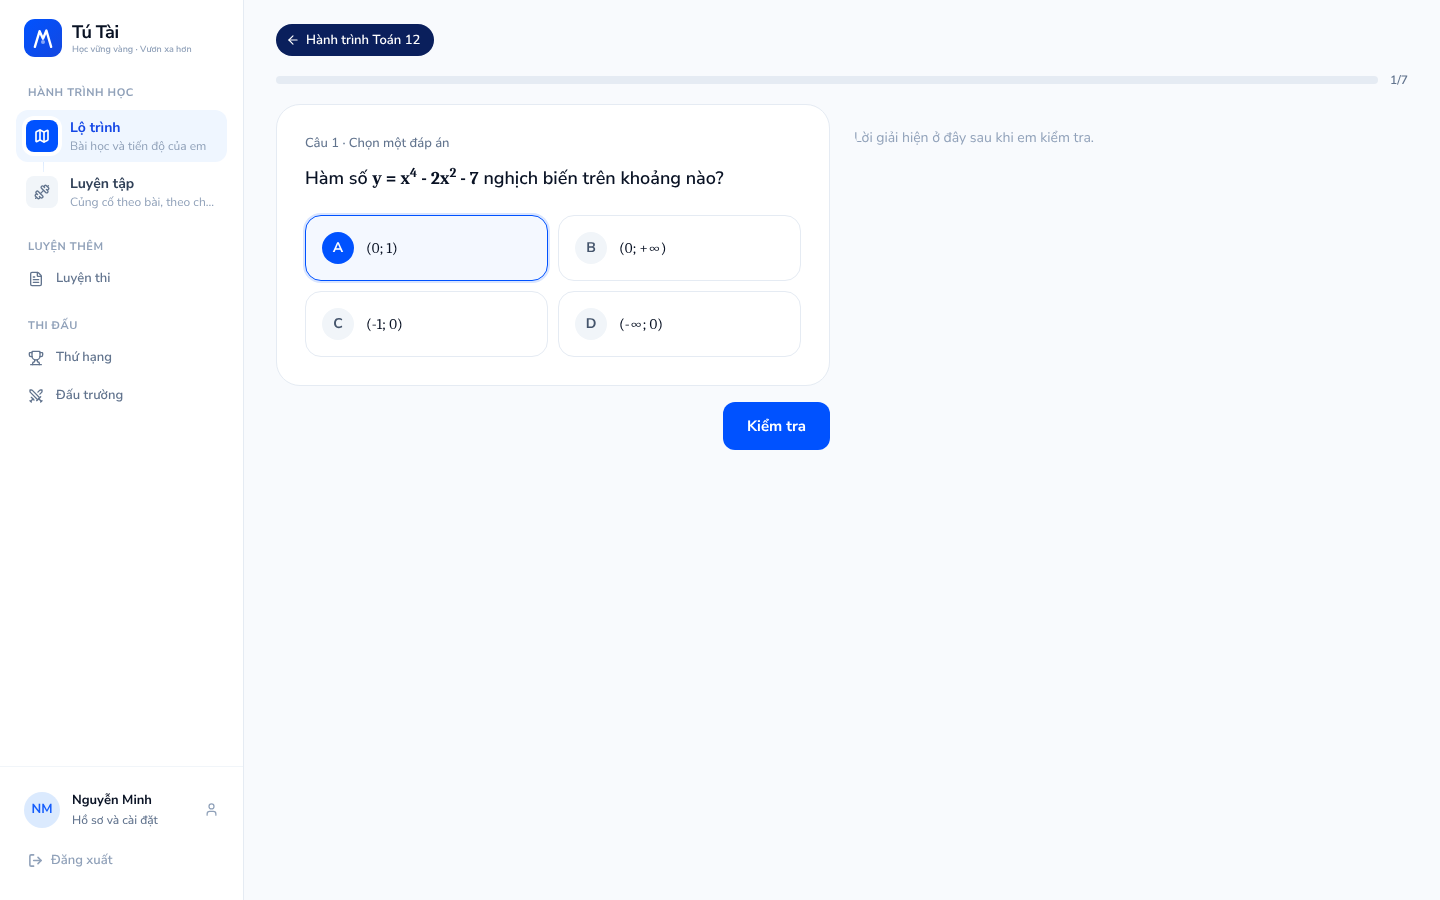
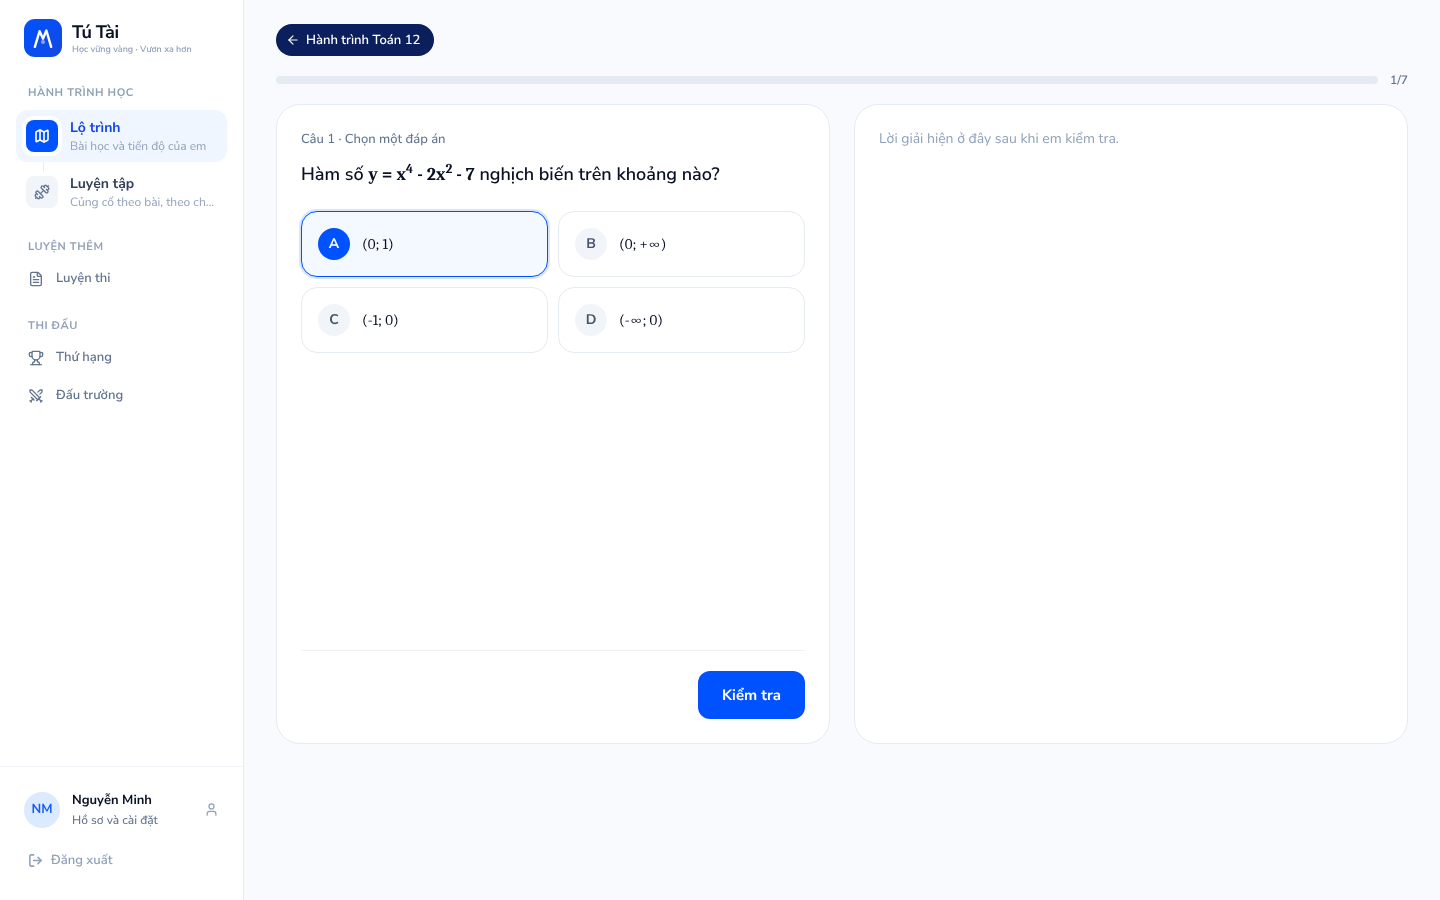
Keep the question and solution cards the same height
Claude-Session: https://claude.ai/code/session_0183PJ8LAwyvZoofH1NCFUep

diff --git a/features/lessons/components/practice-stage.tsx b/features/lessons/components/practice-stage.tsx
@@ -1,14 +1,21 @@
 import * as React from 'react';
 
+/** For the result panel inside the stage: side by side, the stage draws the card around it. */
+export const STAGE_FEEDBACK_CLASS = '@min-[880px]/stage:border-0';
+
 /**
  * One practice question on screen. Where the content area is wide enough, the
- * question and its answers sit on the left and the result with the worked
- * solution on the right, kept in view while the solution scrolls on its own,
- * so the student reads the solution beside the question instead of scrolling
- * down to it. Narrower, everything stacks: question, result, then the action.
+ * question, its answers and the action sit in one card on the left and the
+ * result with the worked solution in a card on the right. The two cards are
+ * always the same height: the question card's, and at least a comfortable
+ * height for the screen, so a short question does not leave a stub beside a
+ * long solution. A solution longer than that scrolls inside its card.
+ * Narrower, everything stacks: question, result, then the action.
  *
  * The split starts at 880px of content width (a container query, not the
  * window's width, since the sidebar takes part of the window on desktop).
+ * Styles that only apply to one layout carry its query, so the two never
+ * compete for the same property.
  */
 export function PracticeStage({
   questionId,
@@ -25,26 +32,34 @@ export function PracticeStage({
 }) {
   return (
     <div className="@container/stage mt-4" data-testid="practice-stage">
-      <div
-        className={`grid grid-cols-1 [grid-template-areas:'q'_'f'_'a'] @min-[880px]/stage:grid-cols-[minmax(0,1fr)_minmax(0,1fr)] @min-[880px]/stage:grid-rows-[auto_1fr] @min-[880px]/stage:gap-x-6 @min-[880px]/stage:[grid-template-areas:'q_f'_'a_f']`}
-      >
-        <div className="min-w-0 [grid-area:q]">{question}</div>
+      <div className="grid grid-cols-1 [grid-template-areas:'q'_'f'_'a'] @min-[880px]/stage:grid-cols-[minmax(0,1fr)_minmax(0,1fr)] @min-[880px]/stage:gap-x-6 @min-[880px]/stage:[grid-template-areas:'q_f']">
+        {/* Side by side: one card holding the question and its action. Stacked: no box of its own. */}
+        <div className="contents @min-[880px]/stage:flex @min-[880px]/stage:min-h-[min(640px,calc(100dvh-11rem))] @min-[880px]/stage:min-w-0 @min-[880px]/stage:flex-col @min-[880px]/stage:gap-6 @min-[880px]/stage:rounded-[24px] @min-[880px]/stage:border @min-[880px]/stage:border-[#E5EBF3] @min-[880px]/stage:bg-white @min-[880px]/stage:p-6 @min-[880px]/stage:[grid-area:q]">
+          <div className="min-w-0 [grid-area:q] @max-[879px]/stage:rounded-[24px] @max-[879px]/stage:border @max-[879px]/stage:border-[#E5EBF3] @max-[879px]/stage:bg-white @max-[879px]/stage:p-5 sm:@max-[879px]/stage:p-7">
+            {question}
+          </div>
+          <div className="[grid-area:a] sm:sticky sm:bottom-4 sm:z-10 sm:@max-[879px]/stage:mt-4 sm:@max-[879px]/stage:self-start sm:@max-[879px]/stage:justify-self-end @min-[880px]/stage:mt-auto @min-[880px]/stage:border-t @min-[880px]/stage:border-[#EEF2F7] @min-[880px]/stage:bg-white @min-[880px]/stage:pt-5">
+            {actions}
+          </div>
+        </div>
         <div
-          key={questionId}
-          className={`min-w-0 overscroll-contain [grid-area:f] ${feedback ? 'mt-4' : ''} @min-[880px]/stage:sticky @min-[880px]/stage:top-6 @min-[880px]/stage:mt-0 @min-[880px]/stage:max-h-[calc(100dvh-3rem)] @min-[880px]/stage:self-start @min-[880px]/stage:overflow-y-auto @min-[880px]/stage:rounded-2xl`}
+          className={`min-w-0 [grid-area:f] ${feedback ? '@max-[879px]/stage:mt-4' : ''} @min-[880px]/stage:relative @min-[880px]/stage:overflow-hidden @min-[880px]/stage:rounded-[24px] @min-[880px]/stage:border @min-[880px]/stage:border-[#E5EBF3] @min-[880px]/stage:bg-white`}
           data-testid="practice-solution-pane"
         >
-          {feedback ?? (
-            <p
-              className="hidden pt-6 text-sm text-slate-400 @min-[880px]/stage:block"
-              data-testid="solution-placeholder"
-            >
-              Lời giải hiện ở đây sau khi em kiểm tra.
-            </p>
-          )}
-        </div>
-        <div className="[grid-area:a] sm:sticky sm:bottom-4 sm:z-10 sm:mt-4 sm:self-start sm:justify-self-end">
-          {actions}
+          <div
+            key={questionId}
+            className="overscroll-contain @min-[880px]/stage:absolute @min-[880px]/stage:inset-0 @min-[880px]/stage:overflow-y-auto"
+            data-testid="practice-solution-scroll"
+          >
+            {feedback ?? (
+              <p
+                className="hidden p-6 text-sm text-slate-400 @min-[880px]/stage:block"
+                data-testid="solution-placeholder"
+              >
+                Lời giải hiện ở đây sau khi em kiểm tra.
+              </p>
+            )}
+          </div>
         </div>
       </div>
     </div>

diff --git a/features/practice-exams/components/set-session.tsx b/features/practice-exams/components/set-session.tsx
@@ -23,7 +23,7 @@ import {
   isComplete,
   type Answer,
 } from '@/features/lessons/components/practice-session';
-import { PracticeStage } from '@/features/lessons/components/practice-stage';
+import { PracticeStage, STAGE_FEEDBACK_CLASS } from '@/features/lessons/components/practice-stage';
 import { practiceHref } from '@/features/lessons/lib/study-plan';
 import type { PracticeFeedback } from '@/lib/practice/grading';
 import type { SetContext } from '@/lib/practice/practice-catalog';
@@ -538,10 +538,7 @@ export function SetSession({
       <PracticeStage
         questionId={question.id}
         question={
-          <section
-            className="rounded-[24px] border border-[#E5EBF3] bg-white p-5 sm:p-7"
-            data-testid="practice-question"
-          >
+          <section data-testid="practice-question">
             <p className="text-[13px] font-medium text-slate-500">
               Câu {index + 1} · {TYPE_HINT[question.type]}
             </p>
@@ -578,7 +575,9 @@ export function SetSession({
             )}
           </section>
         }
-        feedback={feedback && <FeedbackPanel feedback={feedback} className="" />}
+        feedback={
+          feedback && <FeedbackPanel feedback={feedback} className={STAGE_FEEDBACK_CLASS} />
+        }
         actions={
           <div className="fixed inset-x-0 bottom-0 z-20 border-t border-[#E5EBF3] bg-white/95 p-3 backdrop-blur sm:static sm:border-0 sm:bg-transparent sm:p-0 sm:backdrop-blur-none">
             <div className="mx-auto flex max-w-[720px] justify-end sm:max-w-none">

diff --git a/features/lessons/components/practice-session.tsx b/features/lessons/components/practice-session.tsx
@@ -36,7 +36,7 @@ import {
   type Summaries,
 } from '../lib/study-plan';
 import { nextStepLabel } from './lesson-practice-card';
-import { PracticeStage } from './practice-stage';
+import { PracticeStage, STAGE_FEEDBACK_CLASS } from './practice-stage';
 
 type Lesson = { id: string; title: string; chapterTitle: string };
 export type Answer =
@@ -1023,10 +1023,7 @@ function PracticeFlow({
       <PracticeStage
         questionId={question.id}
         question={
-          <section
-            className="rounded-[24px] border border-[#E5EBF3] bg-white p-5 sm:p-7"
-            data-testid="practice-question"
-          >
+          <section data-testid="practice-question">
             <p className="text-[13px] font-medium text-slate-500">
               Câu {index + 1} · {TYPE_HINT[question.type]}
             </p>
@@ -1065,7 +1062,7 @@ function PracticeFlow({
         }
         feedback={
           feedback && (
-            <FeedbackPanel feedback={feedback} className="">
+            <FeedbackPanel feedback={feedback} className={STAGE_FEEDBACK_CLASS}>
               {!feedback.correct && (
                 <LessonAssist
                   key={question.id}

diff --git a/docs/reviews/practice-split-layout/BAO-CAO.md b/docs/reviews/practice-split-layout/BAO-CAO.md
@@ -49,11 +49,18 @@ Không có cuộn ngang ở khổ nào (`scrollWidth - innerWidth = 0`).
 - Nhãn "Câu 1 · Chọn một đáp án" đổi sang màu xám, để đề bài là chỗ nổi bật nhất.
 - Những thay đổi này nằm trong thành phần dùng chung, nên phần xem lại bài thi, xem trước ở admin và kiểm tra nhanh trong bài học cũng đổi theo.
 
+## Hai cột cao bằng nhau (vòng 3)
+
+- Bên trái là một thẻ gồm câu hỏi, phương án và nút ở đáy thẻ, có đường kẻ mảnh ngăn phần nút. Bên phải là một thẻ chứa kết quả và lời giải.
+- Hai thẻ luôn cao bằng nhau. Chiều cao lấy theo thẻ câu hỏi, nhưng không thấp hơn min(640 px, chiều cao màn hình − 176 px). Vì thế câu ngắn không bị lùn bên cạnh một lời giải dài.
+- Lời giải dài hơn chiều cao đó thì cuộn bên trong thẻ phải. Câu hỏi dài hơn (ví dụ câu Đúng/Sai 4 ý) thì cả trang cuộn, thẻ phải giãn theo cho bằng, và nút vẫn bám đáy màn hình.
+- Ở 1920, 1440 và 1280, trang vừa khít một màn hình. Riêng câu Đúng/Sai 4 ý thì trang dài hơn khoảng 100 px.
+
 ## Ảnh
 
 Trước: `truoc/1440-3-sai.png`, `truoc/1280-4-dung-sai.png`, `truoc/390-3-sai.png`
 
-Sau: `sau/1440-1-chon-dap-an.png`, `sau/1440-2-dung-loi-giai-dai.png`, `sau/1440-3-sai.png`, `sau/1440-4-dung-sai.png`, `sau/1280-4-dung-sai.png`, `sau/1366x620-loi-giai-cuon-xuong.png`, `sau/1024-3-sai-vi-sao.png`, `sau/390-3-sai.png`, `sau/1440-on-chuong.png`
+Sau: `sau/1440-1-chon-dap-an.png`, `sau/1440-2-dung-loi-giai-dai.png`, `sau/1440-3-sai.png`, `sau/1440-4-dung-sai.png`, `sau/1280-3-sai.png`, `sau/1280-4-dung-sai.png`, `sau/1366x620-loi-giai-cuon-xuong.png`, `sau/1024-3-sai-vi-sao.png`, `sau/390-3-sai.png`, `sau/1440-on-chuong.png`
 
 ## Đã kiểm tra
 
